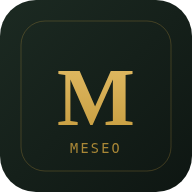
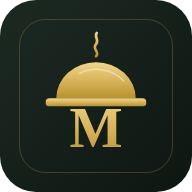
Nuevo icono Meseo: cloche con vapor + M (#305)
Sustituye el icono antiguo (M + wordmark "MESEO") por la cúpula de servicio
(cloche) con vapor y bandeja rematada con una M serif dorada, sobre el verde
oscuro de la marca con filete dorado. Regenera icon-192.png e icon-512.png
desde el SVG y sube la versión a 7.248 para refrescar la caché del service
worker. Actualiza el guard de smoke del icono al nuevo diseño (monograma M,
nunca Txoko).

Claude-Session: https://claude.ai/code/session_012TokW8ZHVkbWAhCLFkyXMq

Changed region(s): [[0.2188, 0.1562, 0.7812, 0.8125], [0.0938, 0.0938, 0.9062, 0.9062], [0.125, 0.125, 0.1562, 0.1562]]

diff --git a/index.html b/index.html
@@ -44,7 +44,7 @@
 <meta name="viewport" content="width=device-width, initial-scale=1.0, viewport-fit=cover">
 <title>Meseo · Formación de sala</title>
 <meta name="description" content="Meseo — Formación de equipos de sala: carta, alérgenos, vinos, exámenes y juegos de repaso.">
-<meta name="app-version" content="7.247">
+<meta name="app-version" content="7.248">
 <meta name="app-build" content="May 2026">
 <meta name="theme-color" content="#1c2a22">
 <!-- ═══ PWA ═══ -->
@@ -1511,7 +1511,7 @@ const CAT_COLORS={'Entrantes':'#c49a3c','Hamburguesas y Bocatas':'#b86050','Plat
 const CAT_ICONS={'Entrantes':`<svg width="20" height="20" viewBox="0 0 24 24"><polygon points="12,1 22,6.5 22,17.5 12,23 2,17.5 2,6.5" fill="#c49a3c"/><polygon points="12,23 22,17.5 22,6.5 12,12" fill="#a47a2c" opacity=".4"/><path d="M8 8v4a1 1 0 001 1h1v4M10 8v4" stroke="#fff" stroke-width="1.2" stroke-linecap="round" fill="none"/><path d="M15 8v8M14 8v3a1.5 1.5 0 003 0V8" stroke="#fff" stroke-width="1.2" stroke-linecap="round" fill="none"/></svg>`,'Hamburguesas y Bocatas':`<svg width="20" height="20" viewBox="0 0 24 24"><polygon points="12,1 22,6.5 22,17.5 12,23 2,17.5 2,6.5" fill="#b86050"/><polygon points="12,23 22,17.5 22,6.5 12,12" fill="#983838" opacity=".4"/><path d="M7 9h10M7 12h10M7 15h10" stroke="#fff" stroke-width="1.3" stroke-linecap="round"/><path d="M8 9c0-2 2-3 4-3s4 1 4 3M8 15c0 2 2 3 4 3s4-1 4-3" fill="none" stroke="#fff" stroke-width="1" opacity=".7"/></svg>`,'Platos Principales':`<svg width="20" height="20" viewBox="0 0 24 24"><polygon points="12,1 22,6.5 22,17.5 12,23 2,17.5 2,6.5" fill="#4888a0"/><polygon points="12,23 22,17.5 22,6.5 12,12" fill="#2e6878" opacity=".4"/><path d="M5 15h14" stroke="#fff" stroke-width="1.3" stroke-linecap="round"/><path d="M12 6a6 6 0 016 6H6a6 6 0 016-6z" fill="none" stroke="#fff" stroke-width="1.1"/><circle cx="10" cy="6" r=".7" fill="#fff" opacity=".7"/><circle cx="12" cy="5" r=".7" fill="#fff" opacity=".7"/><circle cx="14" cy="6" r=".7" fill="#fff" opacity=".7"/></svg>`,'Sugerencias':`<svg width="20" height="20" viewBox="0 0 24 24"><polygon points="12,1 22,6.5 22,17.5 12,23 2,17.5 2,6.5" fill="#d4aa4c"/><polygon points="12,23 22,17.5 22,6.5 12,12" fill="#a48a2c" opacity=".4"/><polygon points="12,5 14.5,10 20,10.5 16,14 17,20 12,17 7,20 8,14 4,10.5 9.5,10" fill="#fff" opacity=".9"/></svg>`,'Guarniciones y Salsas':`<svg width="20" height="20" viewBox="0 0 24 24"><polygon points="12,1 22,6.5 22,17.5 12,23 2,17.5 2,6.5" fill="#4d8a5e"/><polygon points="12,23 22,17.5 22,6.5 12,12" fill="#2d6a3e" opacity=".4"/><path d="M12 18V10M5 10c0-4 3-6 7-6s7 2 7 6c0 5-3 8-7 8s-7-3-7-8z" fill="none" stroke="#fff" stroke-width="1.1"/><path d="M5 10c3 0 5 1 7 2.5" fill="none" stroke="#fff" stroke-width=".8" opacity=".6"/></svg>`,'Postres':`<svg width="20" height="20" viewBox="0 0 24 24"><polygon points="12,1 22,6.5 22,17.5 12,23 2,17.5 2,6.5" fill="#7a6aaa"/><polygon points="12,23 22,17.5 22,6.5 12,12" fill="#5a4a8a" opacity=".4"/><path d="M9 19h6M12 12v7M7 6l2 4.5a3 3 0 006 0L17 6H7z" fill="none" stroke="#fff" stroke-width="1.1" stroke-linecap="round"/></svg>`,'Vegetariano':`<svg width="20" height="20" viewBox="0 0 24 24"><polygon points="12,1 22,6.5 22,17.5 12,23 2,17.5 2,6.5" fill="#5a9a6e"/><polygon points="12,23 22,17.5 22,6.5 12,12" fill="#3a7a4e" opacity=".4"/><path d="M9 18h6M12 18V10M12 10c0-3 2-5 5-5-.7 2.5-2.5 5-5 5zM12 10c0-3-2-5-5-5 .7 2.5 2.5 5 5 5z" fill="none" stroke="#fff" stroke-width="1.1" stroke-linecap="round"/></svg>`};
 
 // ═══════ APP VERSION ═══════
-const APP_VERSION='7.247';  // sincronizada con sw.js VERSION (guard de CI)
+const APP_VERSION='7.248';  // sincronizada con sw.js VERSION (guard de CI)
 const APP_BUILD='Jul 2026';
 window.APP_VERSION=APP_VERSION;
 window.APP_BUILD=APP_BUILD;

diff --git a/sw.js b/sw.js
@@ -4,7 +4,7 @@
 //   • Web Push notifications
 //   • Notification click → focus existing window in scope, or open one
 
-const VERSION = 'v7.247';
+const VERSION = 'v7.248';
 const CACHE_NAME = `txoko-shell-${VERSION}`;
 // Caché ESTABLE para assets perezosos (sprites de img/, data/*.json). A
 // diferencia del shell (versionado), NO se borra al cambiar de versión: así